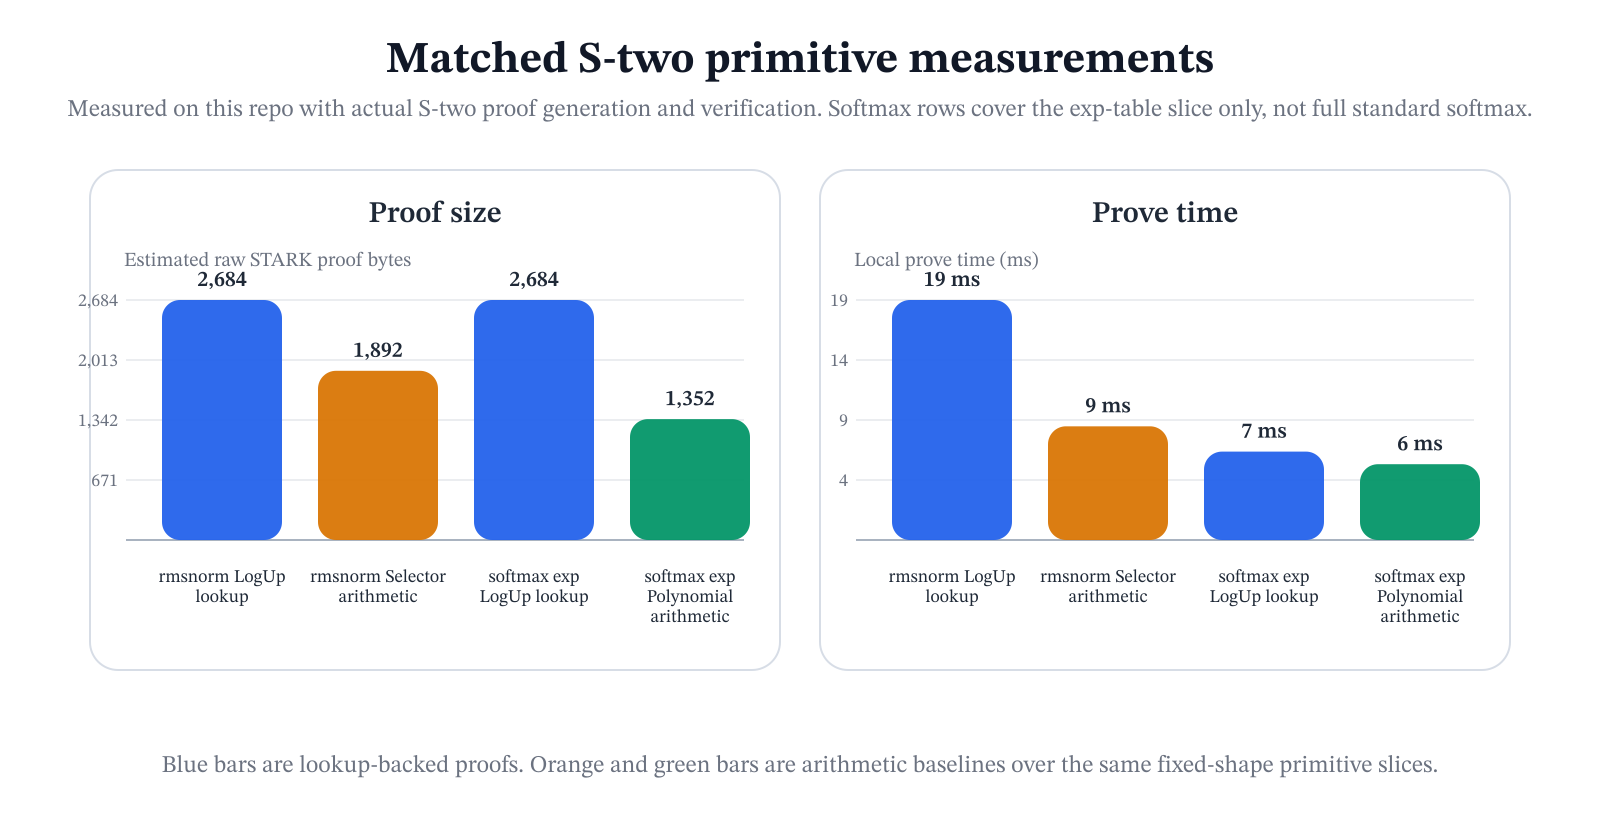
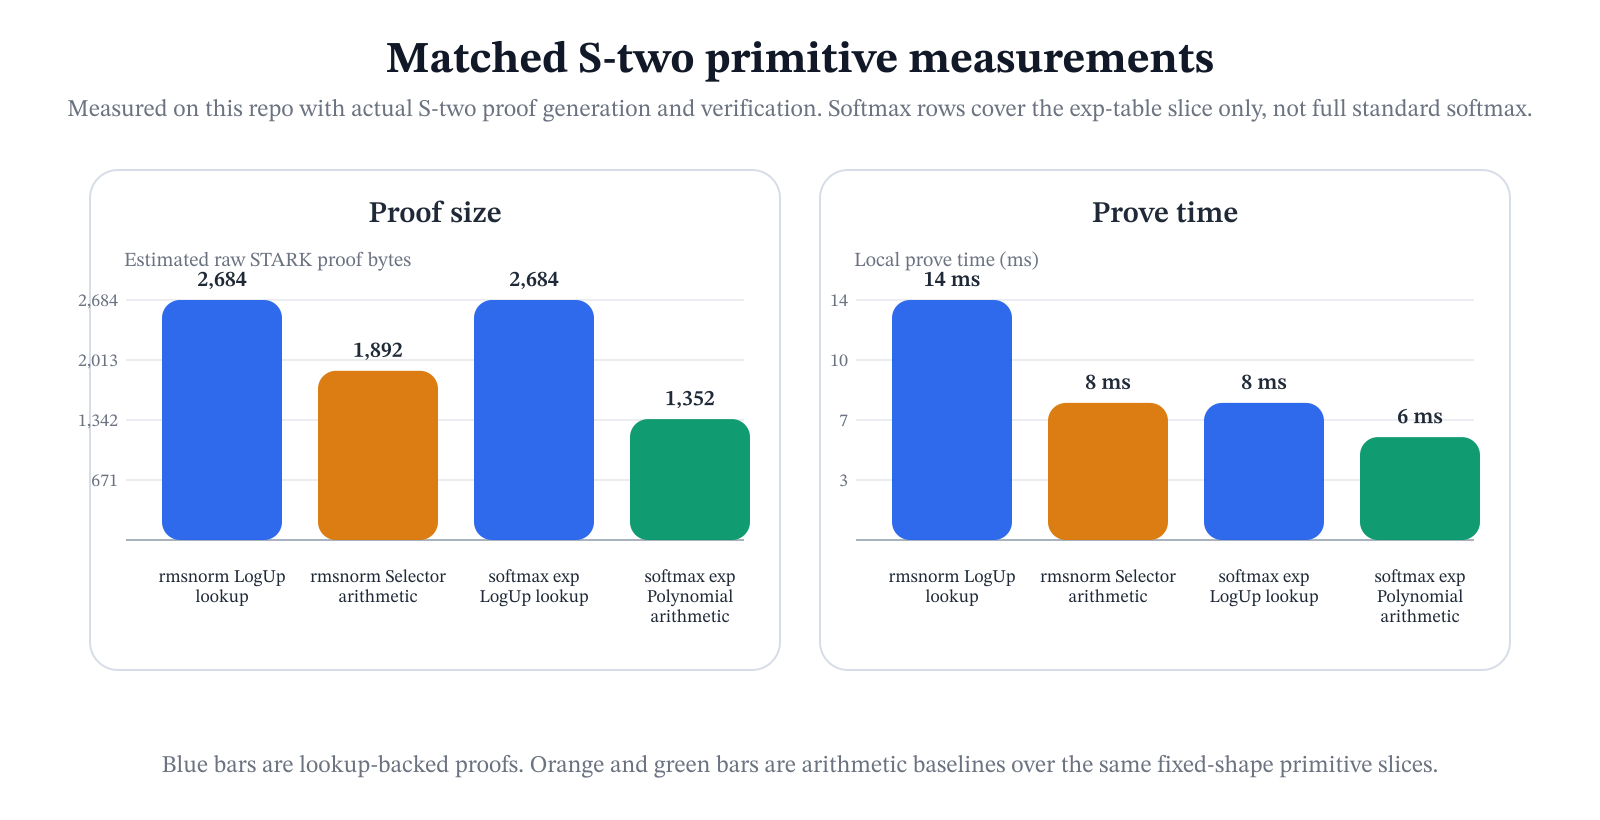
Fail closed on malformed primitive benchmark inputs

Changed region(s): [[0.6562, 0.4573, 0.9375, 0.5793]]

diff --git a/src/stwo_backend/primitive_benchmark.rs b/src/stwo_backend/primitive_benchmark.rs
@@ -217,6 +217,12 @@ pub fn run_stwo_primitive_lookup_vs_naive_benchmark() -> Result<StwoPrimitiveBen
     rows.push(measure_rmsnorm_selector_arithmetic()?);
     rows.push(measure_softmax_exp_lookup()?);
     rows.push(measure_softmax_exp_polynomial()?);
+    if let Some(failed) = rows.iter().find(|row| !row.verified) {
+        return Err(VmError::UnsupportedProof(format!(
+            "primitive benchmark row {} / {} did not verify",
+            failed.primitive, failed.backend_variant
+        )));
+    }
     Ok(StwoPrimitiveBenchmarkReport {
         benchmark_version: STWO_PRIMITIVE_BENCHMARK_VERSION.to_string(),
         semantic_scope: STWO_PRIMITIVE_BENCHMARK_SCOPE.to_string(),
@@ -473,6 +479,11 @@ fn verify_softmax_exp_lookup(claimed_rows: &[(u16, u16)], proof: &[u8]) -> Resul
         SecureField::zero(),
     );
     let sizes = placeholder_component.trace_log_degree_bounds();
+    if stark_proof.commitments.len() < sizes.len() {
+        return Err(VmError::UnsupportedProof(
+            "softmax-exp lookup proof uses a malformed or tampered commitment payload".to_string(),
+        ));
+    }
     commitment_scheme.commit(stark_proof.commitments[0], &sizes[0], channel);
     commitment_scheme.commit(stark_proof.commitments[1], &sizes[1], channel);
     mix_claimed_rows(channel, &bundle.claimed_rows);
@@ -544,6 +555,12 @@ where
     let commitment_scheme =
         &mut CommitmentSchemeVerifier::<Blake2sM31MerkleChannel>::new(pcs_config);
     let sizes = component.trace_log_degree_bounds();
+    if stark_proof.commitments.len() < sizes.len() {
+        return Err(VmError::UnsupportedProof(
+            "primitive arithmetic proof uses a malformed or tampered commitment payload"
+                .to_string(),
+        ));
+    }
     commitment_scheme.commit(stark_proof.commitments[0], &sizes[0], channel);
     commitment_scheme.commit(stark_proof.commitments[1], &sizes[1], channel);
     Ok(verify(&[&component], channel, commitment_scheme, stark_proof).is_ok())
@@ -825,6 +842,21 @@ mod tests {
     }
 
     #[test]
+    fn primitive_benchmark_rejects_tampered_softmax_lookup_shape() {
+        let proof = prove_softmax_exp_lookup(&SOFTMAX_EXP_ROWS).expect("softmax proof");
+        let mut payload: PrimitiveBenchmarkProofPayload =
+            serde_json::from_slice(&proof).expect("deserialize proof payload");
+        payload.stark_proof.0.commitments.clear();
+        let tampered = serde_json::to_vec(&payload).expect("serialize tampered payload");
+
+        let error = verify_softmax_exp_lookup(&SOFTMAX_EXP_ROWS, &tampered)
+            .expect_err("shortened commitment payload must be rejected");
+        assert!(error
+            .to_string()
+            .contains("softmax-exp lookup proof uses a malformed or tampered commitment payload"));
+    }
+
+    #[test]
     fn primitive_benchmark_rejects_tampered_arithmetic_rows() {
         let proof =
             prove_rmsnorm_selector_arithmetic(&RMSNORM_ROWS).expect("arithmetic benchmark proof");
@@ -838,5 +870,21 @@ mod tests {
         assert!(error
             .to_string()
             .contains("primitive arithmetic proof uses non-canonical rows"));
+    }
+
+    #[test]
+    fn primitive_benchmark_rejects_tampered_arithmetic_shape() {
+        let proof =
+            prove_rmsnorm_selector_arithmetic(&RMSNORM_ROWS).expect("arithmetic benchmark proof");
+        let mut payload: PrimitiveBenchmarkProofPayload =
+            serde_json::from_slice(&proof).expect("deserialize proof payload");
+        payload.stark_proof.0.commitments.clear();
+        let tampered = serde_json::to_vec(&payload).expect("serialize tampered payload");
+
+        let error = verify_rmsnorm_selector_arithmetic(&RMSNORM_ROWS, &tampered)
+            .expect_err("shortened arithmetic commitment payload must be rejected");
+        assert!(error.to_string().contains(
+            "primitive arithmetic proof uses a malformed or tampered commitment payload"
+        ));
     }
 }

diff --git a/scripts/paper/generate_stwo_primitive_lookup_vs_naive_figure.py b/scripts/paper/generate_stwo_primitive_lookup_vs_naive_figure.py
@@ -203,26 +203,34 @@ def render_svg(rows: list[dict[str, str]]) -> str:
 
 
 def write_optional_rasters(svg_path: Path, png_path: Path, pdf_path: Path) -> None:
-    rsvg = subprocess.run(
-        ["rsvg-convert", "-f", "png", "-o", str(png_path), str(svg_path)],
-        check=False,
-        capture_output=True,
-        text=True,
-    )
-    if rsvg.returncode == 0:
+    try:
+        rsvg = subprocess.run(
+            ["rsvg-convert", "-f", "png", "-o", str(png_path), str(svg_path)],
+            check=False,
+            capture_output=True,
+            text=True,
+        )
+    except FileNotFoundError:
+        print(f"skipped {png_path} (rsvg-convert not found)")
+        rsvg = None
+    if rsvg is not None and rsvg.returncode == 0:
         print(f"wrote {png_path}")
-    else:
+    elif rsvg is not None:
         print(f"skipped {png_path} (rsvg-convert png failed: {rsvg.stderr.strip()})")
 
-    rsvg_pdf = subprocess.run(
-        ["rsvg-convert", "-f", "pdf", "-o", str(pdf_path), str(svg_path)],
-        check=False,
-        capture_output=True,
-        text=True,
-    )
-    if rsvg_pdf.returncode == 0:
+    try:
+        rsvg_pdf = subprocess.run(
+            ["rsvg-convert", "-f", "pdf", "-o", str(pdf_path), str(svg_path)],
+            check=False,
+            capture_output=True,
+            text=True,
+        )
+    except FileNotFoundError:
+        print(f"skipped {pdf_path} (rsvg-convert not found)")
+        rsvg_pdf = None
+    if rsvg_pdf is not None and rsvg_pdf.returncode == 0:
         print(f"wrote {pdf_path}")
-    else:
+    elif rsvg_pdf is not None:
         print(f"skipped {pdf_path} (rsvg-convert pdf failed: {rsvg_pdf.stderr.strip()})")
 
 

diff --git a/src/bin/tvm.rs b/src/bin/tvm.rs
@@ -3694,11 +3694,15 @@ fn bench_stwo_primitive_lookup_vs_naive_command(
         require_stwo_backend("S-two primitive lookup-vs-naive benchmark")?;
         validate_distinct_benchmark_output_paths(output_tsv, output_json)?;
         if let Some(parent) = output_tsv.parent() {
-            fs::create_dir_all(parent)?;
+            if !parent.as_os_str().is_empty() {
+                fs::create_dir_all(parent)?;
+            }
         }
         if let Some(path) = output_json {
             if let Some(parent) = path.parent() {
-                fs::create_dir_all(parent)?;
+                if !parent.as_os_str().is_empty() {
+                    fs::create_dir_all(parent)?;
+                }
             }
         }
         let report = run_stwo_primitive_lookup_vs_naive_benchmark()?;

diff --git a/docs/paper/stark-transformer-alignment-2026.md b/docs/paper/stark-transformer-alignment-2026.md
@@ -308,13 +308,14 @@ proof paths over the current codebase: RMSNorm `lookup_logup` versus
 `naive_selector_arithmetic`, and `softmax_exp_q8` `lookup_logup` versus
 `polynomial_interpolation`. The point of this measurement is calibration, not a
 dominance claim. The quoted timings are representative values from one checked local run,
-and the checked-in TSV is the canonical source for this branch; those millisecond values
-will drift with host hardware and implementation changes even when the semantic relation
-stays the same. On these tiny fixed-shape slices, the lookup-backed paths are currently
-somewhat larger and somewhat slower than the naive arithmetic alternatives: RMSNorm
-records `2,684` proof bytes / `19 ms` prove / `2 ms` verify for the lookup side versus
-`1,892` bytes / `9 ms` / `1 ms` for selector arithmetic; the softmax-exp slice records
-`2,684` bytes / `7 ms` / `1 ms` versus `1,352` bytes / `6 ms` / `1 ms` for degree-2
+and the checked-in TSV is the canonical source for this branch; that TSV was generated on
+2026-04-23 on an arm64 macOS 26.4.1 development host, and those millisecond values will
+drift with host hardware and implementation changes even when the semantic relation stays
+the same. On these tiny fixed-shape slices, the lookup-backed paths are currently somewhat
+larger and somewhat slower than the naive arithmetic alternatives: RMSNorm
+records `2,684` proof bytes / `14 ms` prove / `2 ms` verify for the lookup side versus
+`1,892` bytes / `8 ms` / `1 ms` for selector arithmetic; the softmax-exp slice records
+`2,684` bytes / `8 ms` / `2 ms` versus `1,352` bytes / `6 ms` / `1 ms` for degree-2
 polynomial interpolation. Here, "proof bytes" means the estimated raw STARK proof size,
 not the enclosing JSON wrapper. That does not overturn the symbolic model; it identifies
 where a small matched empirical anchor and a long-context symbolic stress model are
